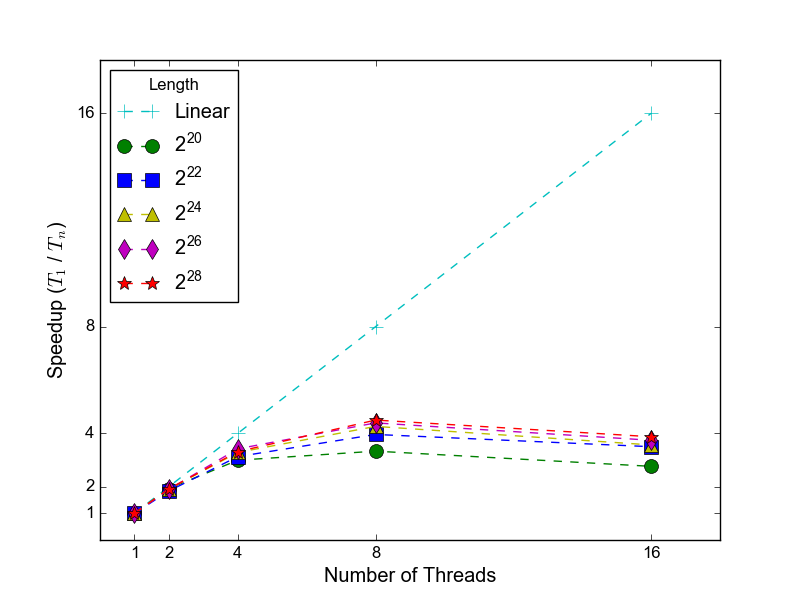
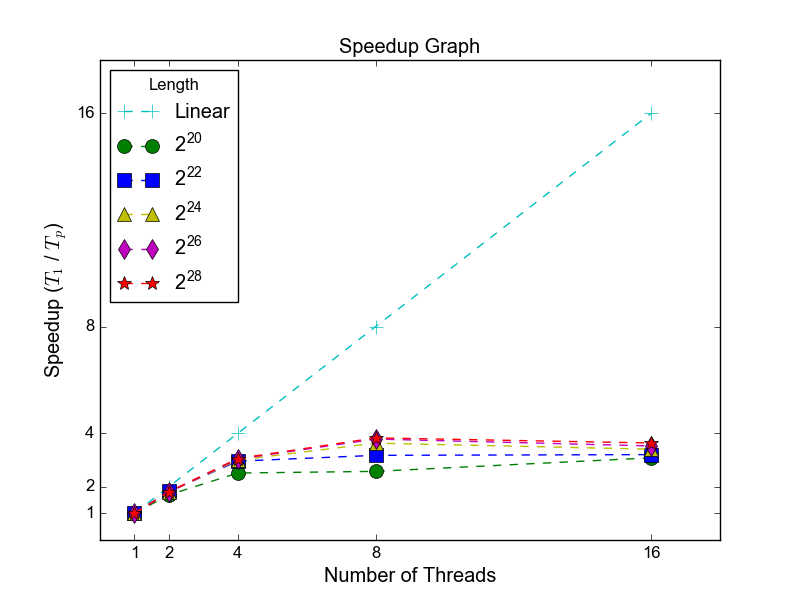
Add summary runtime table generation functionality in 'tools/plot.py'
- Add a sample summary runtime table 'doc/runtime.png'
- Add new summary table generation function 'runtime_tabulate' in
'tools/plot.py'
- Document the command line interface changes for 'tools/plot.py' in
'Speedup Comparison' section of 'README.md'
- Modify 'speedup_plot' function to return a 'runtime_dict' in 'tools/plot.py'
- Update 'doc/speedup.png' for the new test run

diff --git a/tools/plot.py b/tools/plot.py
@@ -1,11 +1,12 @@
 #!/usr/bin/env python3
 
 """
-Generates speed-up graphs for the PSRS program.
+Generates a speed-up graph and a summary table of running time for
+the PSRS program.
 """
 
 # ------------------------------- MODULE INFO ---------------------------------
-__all__ = ["speedup_plot"]
+__all__ = ["speedup_plot", "runtime_tabulate"]
 # ------------------------------- MODULE INFO ---------------------------------
 
 # --------------------------------- MODULES -----------------------------------
@@ -14,18 +15,32 @@ import math
 import matplotlib
 import matplotlib.pyplot as plt
 import os
+import random
 import shutil
 import struct
 import subprocess
+
+from typing import Dict, List, Tuple
 # --------------------------------- MODULES -----------------------------------
+
+# ------------------------------ TYPE ALIASES ---------------------------------
+# The 'runtime_dict' returned by 'speedup_plot' is a 'dict' with keys
+# of the following form:
+RunTimeKey = Tuple[int, Tuple[int]]
+# an example entry in the 'runtime_dict' would be
+# (1024, (1, 2, 4, 8, 16)): [0.5, 0.4, 0.3, 0.2, 0.1]
+# which denotes:
+# (number of keys sorted, (number of threads used as tests)): [actual runtime]
+# ------------------------------ TYPE ALIASES ---------------------------------
 
 
 # -------------------------------- FUNCTIONS ----------------------------------
-def speedup_plot(program: str, output: str):
+def speedup_plot(program: str, output: str) -> Dict[RunTimeKey, List[float]]:
     """
     Plots the speedup graph based on the given 'program' that implements the
     Parallel Sorting by Regular Sampling algorithm and saves the graph as
-    'output'.
+    'output', also returns a 'dict' containing actual runtimes in the form
+    described in 'TYPE ALIASES' section.
 
     NOTE:
     The PSRS program must support a command line interface of the following:
@@ -45,17 +60,20 @@ def speedup_plot(program: str, output: str):
     average_time = None
     program += " -b -l {length} -r {run} -s {seed} -t {thread} -w {window}"
     argument_dict = dict(run=7, seed=10, window=5)
-    thread_range = [2 ** e for e in range(5)]
-    # length_range = [2 ** e for e in range(20, 29, 2)]
-    length_range = [2 ** e for e in range(15, 24, 2)]
-    legend_range = ["o", "s", "^", "d", "*"]
-    color_range = ["g", "b", "y", "m", "r"]
-    speedup = list()
+    thread_range = tuple(2 ** e for e in range(5))
+    length_range = tuple(2 ** e for e in range(20, 29, 2))
+    # length_range = tuple(2 ** e for e in range(10, 19, 2))
+    legend_range = ("o", "s", "^", "d", "*")
+    color_range = ("g", "b", "y", "m", "r")
+    runtime_keys = [(length, thread_range) for length in length_range]
+    runtime_dict = {runtime_key: list() for runtime_key in runtime_keys}
+    speedup_vector = list()
     extension = os.path.splitext(output)[-1]
 
     if not extension:
         raise ValueError("The output must have a valid file extension")
 
+    plt.title("Speedup Graph")
     plt.xticks(thread_range)
     plt.yticks(thread_range)
     plt.xlabel("Number of Threads", fontsize="large")
@@ -69,7 +87,7 @@ def speedup_plot(program: str, output: str):
 
     for length, legend, color in zip(length_range, legend_range, color_range):
         argument_dict["length"] = length
-        speedup.clear()
+        speedup_vector.clear()
         for thread_count in thread_range:
             argument_dict["thread"] = thread_count
             command = program.format(**argument_dict).split(" ")
@@ -90,21 +108,68 @@ def speedup_plot(program: str, output: str):
                 average_time = struct.unpack("@d", proc.communicate()[0])[0]
             if 1 != thread_count:
                 # Speedup = T1 / Tp
-                average_time = speedup[0] / average_time
-            speedup.append(average_time)
+                speedup = speedup_vector[0] / average_time
+            else:
+                speedup = average_time
+            speedup_vector.append(speedup)
+            runtime_dict[(length, thread_range)].append(average_time)
 
         # The speedup for the 1 thread case is always 1
-        speedup[0] /= speedup[0]
-        plt.plot(thread_range, speedup,
+        # set outside the inner loop because all the speedup values in
+        # the 'speedup_vector' need to be calculated based on the T1
+        speedup_vector[0] = 1.0
+        plt.plot(thread_range, speedup_vector,
                  color=color, label=_log2_exponent_get(length), linestyle="--",
                  marker=legend, markersize=10)
 
     plt.legend(loc="best", title="Length")
     plt.savefig(output)
+    plt.clf()
+    return runtime_dict
+
+
+def runtime_tabulate(runtime: Dict[RunTimeKey, List[float]], output: str):
+    """
+
+    NOTE: Assumes all the values in 'runtime' is of same length; so there
+    are same number of threads tested for each length.
+    """
+    if not (isinstance(runtime, dict) and isinstance(output, str)):
+        raise TypeError("'runtime' and 'output' need to be of 'dict', 'str'"
+                        " types, respectively")
+
+    length_range = [float(key[0]) for key in sorted(runtime.keys())]
+    length_label = [_log2_exponent_get(length) for length in length_range]
+    thread_range = random.choice(list(runtime.keys()))[-1]
+    thread_label = list()
+    runtime_matrix = [runtime[key] for key in sorted(runtime.keys())]
+    runtime_format = [["{0:f}".format(j) for j in i] for i in runtime_matrix]
+
+    for thread in thread_range:
+        label = "{0} Thread{1}".format(thread, "" if 1 == thread else "s")
+        thread_label.append(label)
+
+    # plt.axis("tight")
+    plt.axis("off")
+    plt.title("Running Time in Moving Average (second)")
+    table = plt.table(cellText=runtime_format,
+                      rowLabels=length_label,
+                      colLabels=thread_label,
+                      loc="center")
+    # table.set_fontsize("large")
+    # table.scale(1.2, 1.2)
+    table.scale(1, 4.5)
+    # figure = plt.gcf()
+    # figure.set_size_inches(10, 6)
+    plt.savefig(output)
+    plt.clf()
 
 
 def _log2_exponent_get(number: float) -> str:
     """
+    Returns a specially formatted string of the result log2(number).
+
+    NOTE: The result log2(number) must be an integer.
     """
     result = math.log2(number)
 
@@ -121,22 +186,25 @@ def main():
     """
 
     parser = argparse.ArgumentParser()
-    parser.add_argument("-p",
-                        "--program",
-                        type=str,
-                        required=False,
-                        help="path to the PSRS executable")
-    parser.add_argument("-o",
-                        "--output",
-                        type=str,
-                        required=False,
-                        help="file name of the speed-up program")
+    attr_desc_dict = {
+        "program": "path to the PSRS executable",
+        "speedup": "file name of the speed-up program",
+        "table": "file name of the running time summary table"
+    }
+
+    for flag, msg in attr_desc_dict.items():
+        parser.add_argument("-" + flag[0],
+                            "--" + flag,
+                            type=str,
+                            required=False,
+                            help=msg)
     args = parser.parse_args()
 
-    if args.program and args.output:
+    if all(getattr(args, attr) for attr in attr_desc_dict):
         matplotlib.rc('font',
                       **{'sans-serif': 'Arial', 'family': 'sans-serif'})
-        speedup_plot(args.program, args.output)
+        runtime_dict = speedup_plot(args.program, args.speedup)
+        runtime_tabulate(runtime_dict, args.table)
 # -------------------------------- FUNCTIONS ----------------------------------
 
 

diff --git a/README.md b/README.md
@@ -55,10 +55,11 @@ In order to get the speedup comparison graph using both array length and number
 of threads as independent variables, run the python script resides in *tools*
 subdirectory:
 ```bash
-python3 tools/plot.py -p build/src/psrs -o speedup.png
+python3 tools/plot.py -p build/src/psrs -s speedup.png -t runtime.png
 ```
 The argument for *-p* flag is the path pointing to the *psrs* executable
-compiled previously; *speedup.png*  is name of the speedup graph.
+compiled previously; *speedup.png*  is name of the speedup graph, *runtime.png*
+is the name of the summary table for actual runtime.
 
 A sample speedup graph obtained by following the above instructions:
 ![speedup](./doc/speedup.png)
@@ -72,6 +73,9 @@ The result is obtained from the following input table:
 | 2²⁴        | 1 2 4 8 16        |
 | 2²⁶        | 1 2 4 8 16        |
 | 2²⁸        | 1 2 4 8 16        |
+
+The actual runtime is recorded in the following table:
+![runtime](./doc/runtime.png)
 
 Note that speedup values are calculated based on the average of last 5 runs of
 the total 7.
